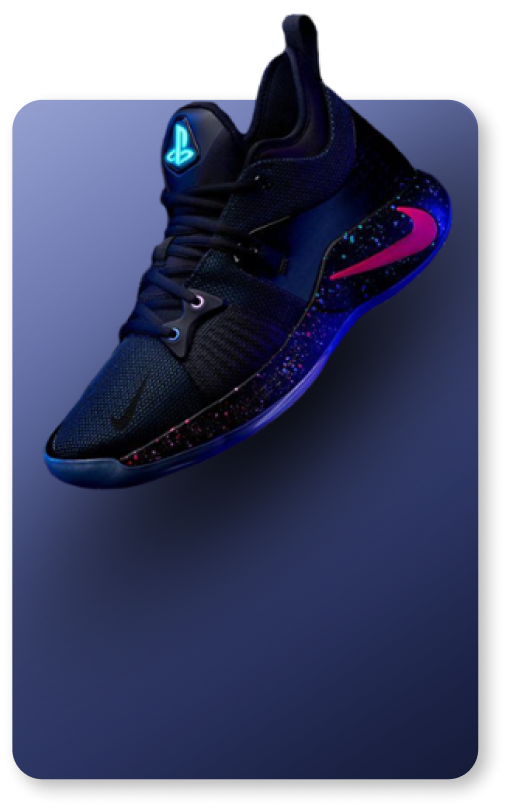
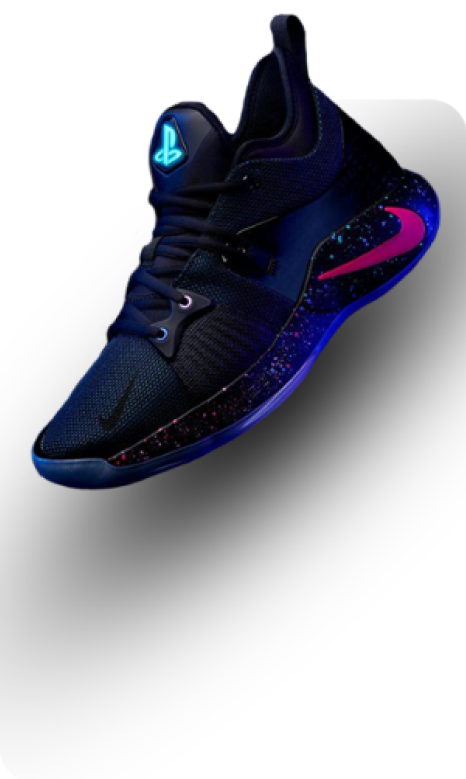
Fixed cards

diff --git a/src/components/Card.jsx b/src/components/Card.jsx
@@ -1,17 +1,11 @@
 import Button from "./Button";
 
 const Card = (props) => {
-  const styles = {
-    backgroundImage: `url(${props.item})`,
-  };
-
   return (
-    <div
-      style={styles}
-      className="h-[780px] bg-contain bg-no-repeat bg-center text-white flex flex-col items-center justify-end pb-20 space-y-8"
-    >
-      <h1 className="uppercase font-display text-4xl">{props.text}</h1>
-      <div className="transform scale-[0.7]">
+    <div className="text-white bg-gradient-to-br from-indigo-500 via-[#1a305f] to-[#142038] rounded-3xl flex flex-col items-center justify-end">
+      <img src={props.photo} className="-mt-[92px]" />
+      <h1 className="uppercase font-display text-3xl -mt-48">{props.text}</h1>
+      <div className="transform scale-[0.6] my-8">
         <Button text="Shop Now" stroke raise />
       </div>
     </div>

diff --git a/src/components/Categories.jsx b/src/components/Categories.jsx
@@ -6,9 +6,9 @@ import Card3 from "../img/item-3.png";
 const Categories = () => {
   return (
     <div className="h-screen grid grid-cols-3 gap-32 px-32 items-center">
-      <Card item={Card1} text="trending" />
-      <Card item={Card2} text="exclusive" />
-      <Card item={Card3} text="coming soon" />
+      <Card photo={Card1} text="trending" />
+      <Card photo={Card2} text="exclusive" />
+      <Card photo={Card3} text="coming soon" />
     </div>
   )
 }

diff --git a/src/components/HeroCard.jsx b/src/components/HeroCard.jsx
@@ -11,7 +11,7 @@ const HeroCard = () => {
         <img src={heroImage} alt="NIKE Air Zoom Coral" className="w-full h-full" />
       </div>
 
-      <div className="absolute top-12 right-16">
+      <div className="absolute top-16 right-16">
         <div className="flex flex-col justify-between items-start space-y-20">
           <h1 className="font-display text-[112px] leading-[100px] uppercase">
             <span>Nike Air</span> <br />
